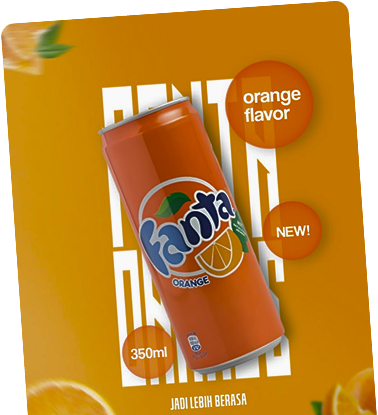
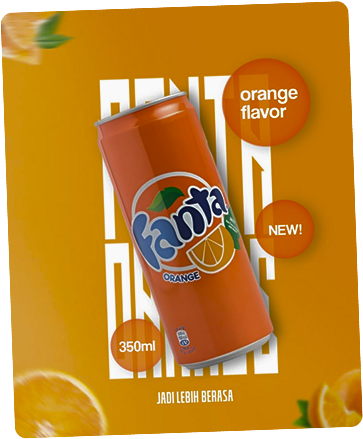
fix: hero section images

diff --git a/src/components/ui/pagination.tsx b/src/components/ui/pagination.tsx
@@ -1,0 +1,127 @@
+import * as React from "react"
+import {
+  ChevronLeftIcon,
+  ChevronRightIcon,
+  MoreHorizontalIcon,
+} from "lucide-react"
+
+import { cn } from "@/lib/utils"
+import { Button, buttonVariants } from "@/components/ui/button"
+
+function Pagination({ className, ...props }: React.ComponentProps<"nav">) {
+  return (
+    <nav
+      role="navigation"
+      aria-label="pagination"
+      data-slot="pagination"
+      className={cn("mx-auto flex w-full justify-center", className)}
+      {...props}
+    />
+  )
+}
+
+function PaginationContent({
+  className,
+  ...props
+}: React.ComponentProps<"ul">) {
+  return (
+    <ul
+      data-slot="pagination-content"
+      className={cn("flex flex-row items-center gap-1", className)}
+      {...props}
+    />
+  )
+}
+
+function PaginationItem({ ...props }: React.ComponentProps<"li">) {
+  return <li data-slot="pagination-item" {...props} />
+}
+
+type PaginationLinkProps = {
+  isActive?: boolean
+} & Pick<React.ComponentProps<typeof Button>, "size"> &
+  React.ComponentProps<"a">
+
+function PaginationLink({
+  className,
+  isActive,
+  size = "icon",
+  ...props
+}: PaginationLinkProps) {
+  return (
+    <a
+      aria-current={isActive ? "page" : undefined}
+      data-slot="pagination-link"
+      data-active={isActive}
+      className={cn(
+        buttonVariants({
+          variant: isActive ? "outline" : "ghost",
+          size,
+        }),
+        className
+      )}
+      {...props}
+    />
+  )
+}
+
+function PaginationPrevious({
+  className,
+  ...props
+}: React.ComponentProps<typeof PaginationLink>) {
+  return (
+    <PaginationLink
+      aria-label="Go to previous page"
+      size="default"
+      className={cn("gap-1 px-2.5 sm:pl-2.5", className)}
+      {...props}
+    >
+      <ChevronLeftIcon />
+      <span className="hidden sm:block">Previous</span>
+    </PaginationLink>
+  )
+}
+
+function PaginationNext({
+  className,
+  ...props
+}: React.ComponentProps<typeof PaginationLink>) {
+  return (
+    <PaginationLink
+      aria-label="Go to next page"
+      size="default"
+      className={cn("gap-1 px-2.5 sm:pr-2.5", className)}
+      {...props}
+    >
+      <span className="hidden sm:block">Next</span>
+      <ChevronRightIcon />
+    </PaginationLink>
+  )
+}
+
+function PaginationEllipsis({
+  className,
+  ...props
+}: React.ComponentProps<"span">) {
+  return (
+    <span
+      aria-hidden
+      data-slot="pagination-ellipsis"
+      className={cn("flex size-9 items-center justify-center", className)}
+      {...props}
+    >
+      <MoreHorizontalIcon className="size-4" />
+      <span className="sr-only">More pages</span>
+    </span>
+  )
+}
+
+export {
+  Pagination,
+  PaginationContent,
+  PaginationLink,
+  PaginationItem,
+  PaginationPrevious,
+  PaginationNext,
+  PaginationEllipsis,
+}

diff --git a/src/domains/external/components/hero.tsx b/src/domains/external/components/hero.tsx
@@ -101,7 +101,7 @@ const HeroSection = () => {
               <Image
                 src={image.src}
                 alt={image.alt}
-                className="max-w-full max-h-full object-contain absolute bottom-[-20px]"
+                className="max-w-full max-h-full object-contain absolute bottom-[-50px] sm:bottom-[-75px] md:bottom-[-100px]"
                 quality={100}
                 width={1000}
                 height={500}
